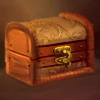
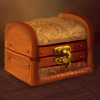
UI cleanup

diff --git a/client/src/components/Modal/index.js b/client/src/components/Modal/index.js
@@ -47,7 +47,7 @@ function Modal(props) {
                     </p>
                     </button>
                 <button id = "modal-submit" onClick = {props.create}>Submit</button>
-                <button id = "modal-close" onClick = {() => {props.toggleModal("inventory", null)}}>
+                <button className = "modal-close" onClick = {() => {props.toggleModal("inventory", null)}}>
                     <p>
                         X
                     </p>

diff --git a/client/src/components/Modal/style.css b/client/src/components/Modal/style.css
@@ -80,8 +80,8 @@
     position:absolute;
     bottom:0;
     right:0;
-    width:50px;
-    height:50px;
+    width:40px;
+    height:40px;
     font-size:20px;
 }
 
@@ -122,7 +122,11 @@
         height:90vh;
         min-height:initial;
         max-height:initial;
-        overflow-y: scroll;
+    }
+
+    #pocketbook-field {
+        height: 100%;
+        
     }
 
     #modal input {

diff --git a/client/src/pages/Home/Home.js b/client/src/pages/Home/Home.js
@@ -24,7 +24,6 @@ class Home extends Component {
     pockets = [];
 
     colorSchemes = {
-
         Blue: {
             background: "rgb(28,32,32)",
             color: "rgb(198, 253, 247)",
@@ -40,7 +39,6 @@ class Home extends Component {
             background: "rgb(28, 32, 28)",
             color: "rgb(226, 253, 198)"
         }
-        
     }
 
     updateStorage = () => {

diff --git a/client/public/index.html b/client/public/index.html
@@ -2,7 +2,7 @@
 <html lang="en">
   <head>
     <meta charset="utf-8" />
-    <link rel="shortcut icon" href="%PUBLIC_URL%/favicon.ico" />
+    <link rel="shortcut icon" href="%PUBLIC_URL%/images/All.png" />
     <meta name="viewport" content="width=device-width, initial-scale=1" />
     <meta name="theme-color" content="#000000" />
     <!--

diff --git a/client/src/pages/Home/style.css b/client/src/pages/Home/style.css
@@ -58,6 +58,7 @@ button {
     right:80px;
     padding:10px;
     background:rgb(41, 29, 29);
+    box-shadow: 0px 0px 15px inset rgba(17, 3, 5, .5)
 }
 
 #inv-buttons {
